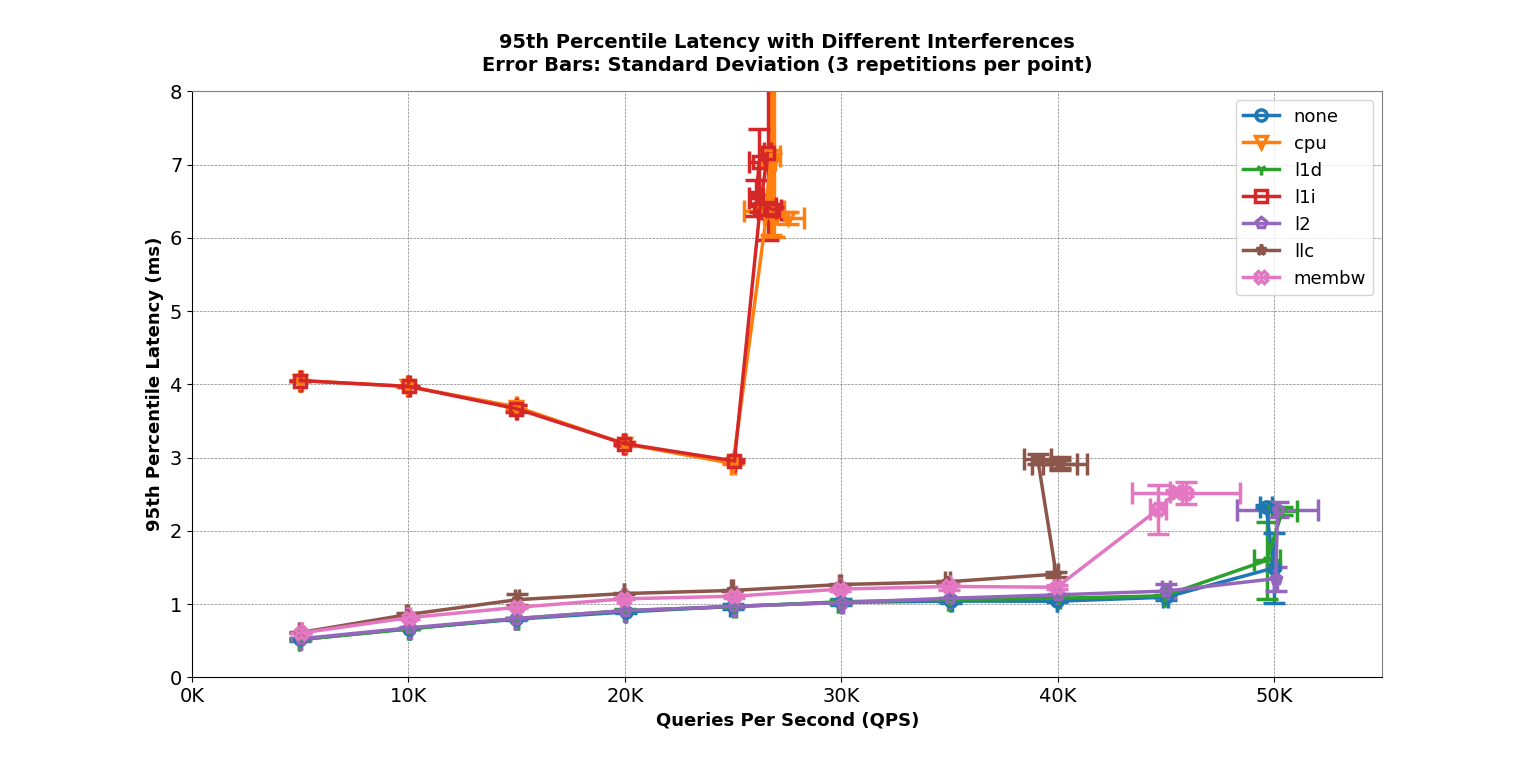
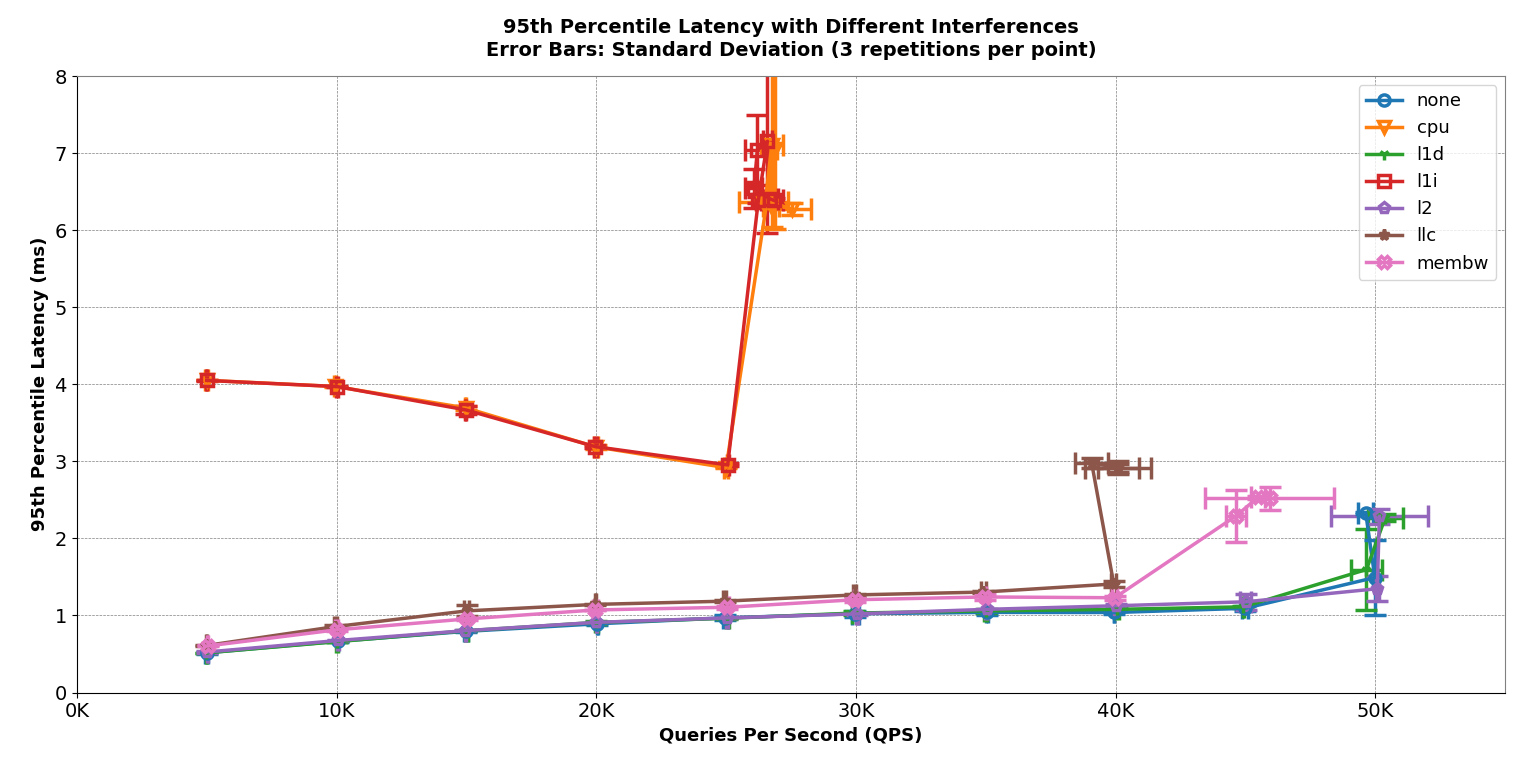
Reduce borders around plots

diff --git a/Part1/part1_extracted_data/create_plot.py b/Part1/part1_extracted_data/create_plot.py
@@ -83,4 +83,6 @@ plt.gca().legend(handles, labels, fontsize=13)
 plt.ylim(0, 8)
 plt.xlim(0, 55000)
 
+# Borders work on full screen image
+plt.subplots_adjust(left=0.05, right=0.98, top=0.9, bottom=0.09)
 plt.show()

diff --git a/Part1/part1_extracted_data/plot_response_time_fit.py b/Part1/part1_extracted_data/plot_response_time_fit.py
@@ -88,4 +88,6 @@ plt.gca().legend(handles, labels, fontsize=13)
 plt.ylim(0, 3)
 plt.xlim(0, 55000)
 
+# Borders work on full screen image
+plt.subplots_adjust(left=0.05, right=0.98, top=0.9, bottom=0.09)
 plt.show()

diff --git a/Part2b/extract_info_from_logs.py b/Part2b/extract_info_from_logs.py
@@ -88,6 +88,8 @@ def main():
     ## Legend
     plt.legend(fontsize=13)
 
+    # Borders work on full screen image
+    plt.subplots_adjust(left=0.05, right=0.98, top=0.92, bottom=0.09)
     plt.show()
 
 
